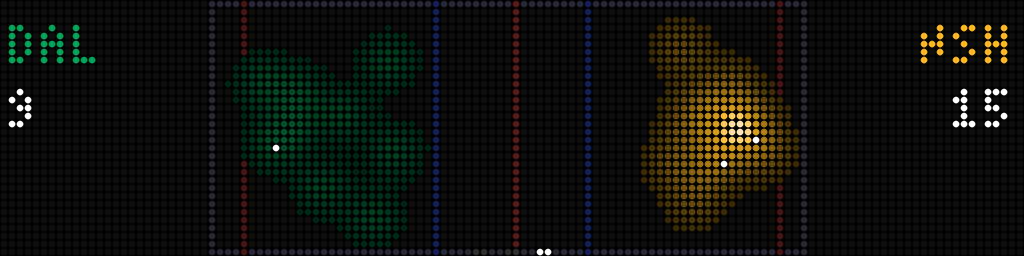
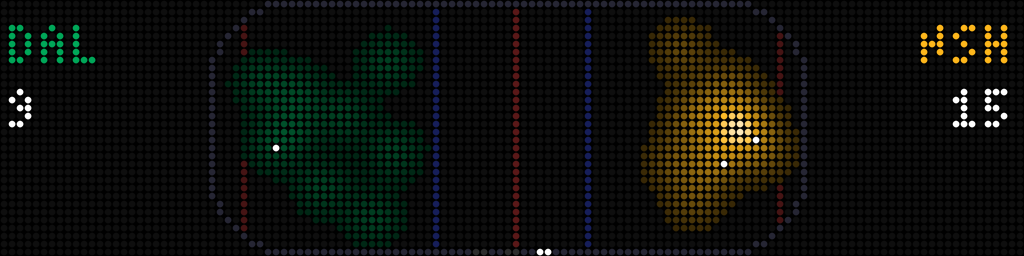
Shot map: round the rink's corners
The four corners are rounded where the end boards meet the sides (28 ft
in the real rink); the outline, the lines and the glow are clipped to
the ice so nothing is drawn in the cut-off corners.

Claude-Session: https://claude.ai/code/session_01Euh6oP8NUVn9LuHPaqVPio

diff --git a/src/scoreboard/display/shotmap.py b/src/scoreboard/display/shotmap.py
@@ -34,6 +34,9 @@ LIGHT_AT = 0.04
 FULL_AT = 1.8
 MIN_PANEL_WIDTH = RINK_W + 2 * 24  # room for a label at each edge
 
+#: The rink's corners are rounded where the end boards meet the sides (28 ft in the real rink).
+CORNER = round(28 * SCALE)
+
 OUTLINE = (38, 38, 52)
 CENTRE_LINE = (90, 24, 24)
 GOAL_LINE = (70, 20, 20)
@@ -45,6 +48,16 @@ GOAL_DOT = (255, 255, 255)
 def fits(width: int) -> bool:
     """Whether a panel is wide enough for the shot map page."""
     return width >= MIN_PANEL_WIDTH
+
+
+def in_rink(px: int, py: int, width: int = RINK_W, height: int = RINK_H) -> bool:
+    """Whether the pixel (``px``, ``py`` from the rink's top-left corner) is on the ice: inside the
+    rectangle and, in each corner, inside the quarter circle that rounds it."""
+    if not (0 <= px < width and 0 <= py < height):
+        return False
+    cx = CORNER if px < CORNER else width - 1 - CORNER if px > width - 1 - CORNER else px
+    cy = CORNER if py < CORNER else height - 1 - CORNER if py > height - 1 - CORNER else py
+    return (px - cx) ** 2 + (py - cy) ** 2 <= (CORNER + 0.5) ** 2
 
 
 def heat_grid(points: list[tuple[float, float]], width: int = RINK_W, height: int = RINK_H):
@@ -85,14 +98,14 @@ def draw_shot_map(r: Renderer, canvas: Any, game: Game, shots: ShotMap) -> None:
         for py, row in enumerate(grid):
             for px, strength in enumerate(row):
                 colour = shade(strength, colours[side], peak)
-                if colour is not None:
+                if colour is not None and in_rink(px, py):
                     canvas.SetPixel(x0 + px, py, *colour)
     for s in shots.shots:
         if s.goal:
-            px = x0 + round((s.x + RINK_HALF_LENGTH) * SCALE)
+            px = round((s.x + RINK_HALF_LENGTH) * SCALE)
             py = round((s.y + RINK_HALF_WIDTH) * SCALE)
-            if 0 <= px < r.width and 0 <= py < RINK_H:
-                canvas.SetPixel(px, py, *GOAL_DOT)
+            if in_rink(px, py):
+                canvas.SetPixel(x0 + px, py, *GOAL_DOT)
     font = r.fonts.tiny
     for side, abbrev, edge in (("away", game.away.abbrev, 1), ("home", game.home.abbrev, None)):
         count = str(len(shots.of(side)))
@@ -105,18 +118,29 @@ def draw_shot_map(r: Renderer, canvas: Any, game: Game, shots: ShotMap) -> None:
 
 
 def _rink(canvas: Any, x0: int) -> None:
-    """The rink's outline, centre, blue and goal lines, dim so the glow reads over them."""
-    for x in range(x0, x0 + RINK_W):
-        canvas.SetPixel(x, 0, *OUTLINE)
-        canvas.SetPixel(x, RINK_H - 1, *OUTLINE)
-    for y in range(RINK_H):
-        canvas.SetPixel(x0, y, *OUTLINE)
-        canvas.SetPixel(x0 + RINK_W - 1, y, *OUTLINE)
-        for feet, colour in (
-            (0, CENTRE_LINE),
-            (-25, BLUE_LINE),
-            (25, BLUE_LINE),
-            (-89, GOAL_LINE),
-            (89, GOAL_LINE),
-        ):
-            canvas.SetPixel(x0 + round((feet + RINK_HALF_LENGTH) * SCALE), y, *colour)
+    """The rink's outline (rounded at the corners), centre, blue and goal lines, dim so the glow
+    reads over them. The lines stop at the outline."""
+    for py in range(RINK_H):
+        for px in range(RINK_W):
+            if not in_rink(px, py):
+                continue
+            edge = not all(
+                in_rink(px + dx, py + dy) for dx, dy in ((1, 0), (-1, 0), (0, 1), (0, -1))
+            )
+            colour = OUTLINE if edge else _line_colour(px)
+            if colour is not None:
+                canvas.SetPixel(x0 + px, py, *colour)
+
+
+def _line_colour(px: int) -> tuple[int, int, int] | None:
+    """The colour of the rink's marking at column ``px``, or ``None`` for plain ice."""
+    for feet, colour in (
+        (0, CENTRE_LINE),
+        (-25, BLUE_LINE),
+        (25, BLUE_LINE),
+        (-89, GOAL_LINE),
+        (89, GOAL_LINE),
+    ):
+        if px == round((feet + RINK_HALF_LENGTH) * SCALE):
+            return colour
+    return None

diff --git a/tests/test_render.py b/tests/test_render.py
@@ -2824,3 +2824,30 @@ def test_heat_grows_where_shots_pile_up_and_a_lone_shot_still_shows():
     assert shade(one[16][round((60 + 100) * 0.375)], (0, 200, 0), FULL_AT) is not None
     assert shade(0.0, (0, 200, 0), FULL_AT) is None
     assert shade(FULL_AT, (0, 200, 0), FULL_AT)[0] > 0, "the hottest spot is pushed towards white"
+
+
+def test_the_rinks_corners_are_rounded_and_the_ice_is_clipped_to_them():
+    from scoreboard.display.shotmap import CORNER, RINK_H, RINK_W, in_rink
+
+    assert not in_rink(0, 0) and not in_rink(RINK_W - 1, 0)
+    assert not in_rink(0, RINK_H - 1) and not in_rink(RINK_W - 1, RINK_H - 1)
+    assert in_rink(CORNER, 0) and in_rink(0, CORNER), "the straight runs start past the curve"
+    assert in_rink(RINK_W // 2, RINK_H // 2) and not in_rink(-1, 5) and not in_rink(5, RINK_H)
+    # the curve is symmetric about both axes
+    for px in range(CORNER):
+        for py in range(CORNER):
+            same = {
+                in_rink(px, py),
+                in_rink(RINK_W - 1 - px, py),
+                in_rink(px, RINK_H - 1 - py),
+                in_rink(RINK_W - 1 - px, RINK_H - 1 - py),
+            }
+            assert len(same) == 1
+
+
+def test_the_shot_map_draws_nothing_in_the_rounded_off_corners(games):
+    game = games["live"]
+    c = draw_map_page(game)
+    x0 = (W - 75) // 2
+    for cx, cy in ((x0, 0), (x0 + 74, 0), (x0, H - 2), (x0 + 74, H - 2)):
+        assert not c.lit(cx, cy, cx, cy), f"a pixel was drawn in the cut corner at {cx},{cy}"
